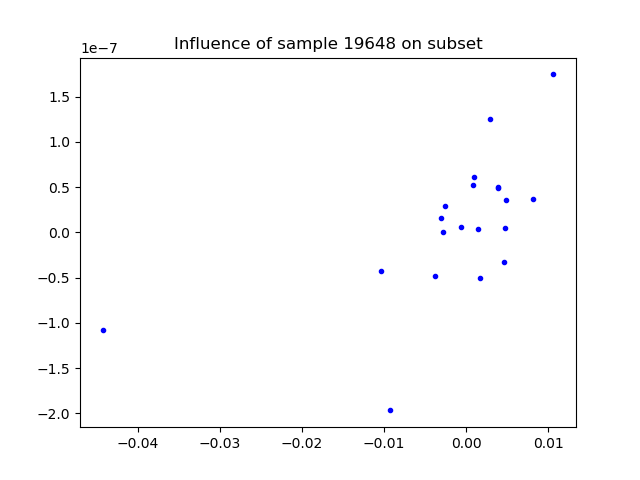
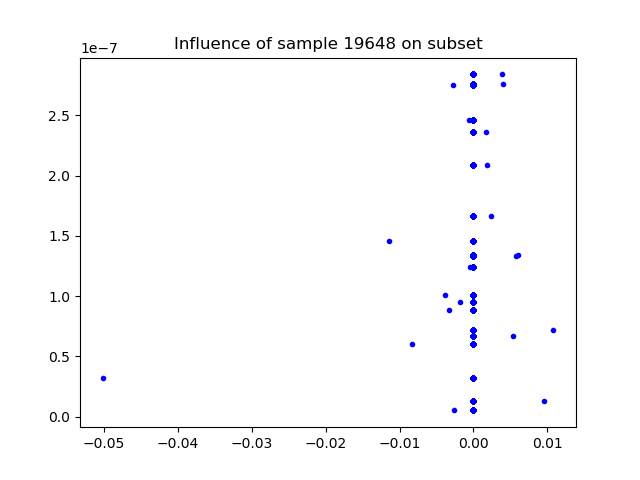
sync

diff --git a/draw_influence_LR.py b/draw_influence_LR.py
@@ -154,3 +154,10 @@ plotit(hinge_list[len(train_idx):], minmax_p[random_idxes],
        minmin_hinge_list, minmax_p[minmin_idx],
        xlabel='-Margin', ylabel='p_{minmax}',
        res_dir=out_dir, yscale='log')
+
+plotit(hinge_list[len(train_idx):], minmin_p[random_idxes],
+       hinge_list[:len(train_idx)], minmin_p[train_idx],
+       minmax_hinge_list, minmin_p[minmax_idx],
+       minmin_hinge_list, minmin_p[minmin_idx],
+       xlabel='-Margin', ylabel='p_{minmin}',
+       res_dir=out_dir, yscale='log')

diff --git a/scripts/run_hinge_adult.py b/scripts/run_hinge_adult.py
@@ -174,6 +174,8 @@ for counter, temp in enumerate(temps):
     for remove_idx in train_idx:
         actual_loss_diff_list = []
         influence = []
+        if os.path.exists(os.path.join(res_dir, 'influence_{}_temp{}.pkl'.format(remove_idx, temp))):
+            continue
         for test_idx in test_idx_list:
             if temp == 0:
                 actual_loss_diff, predicted_loss_diff, indices_to_remove = experiments.test_retraining_on_train(
